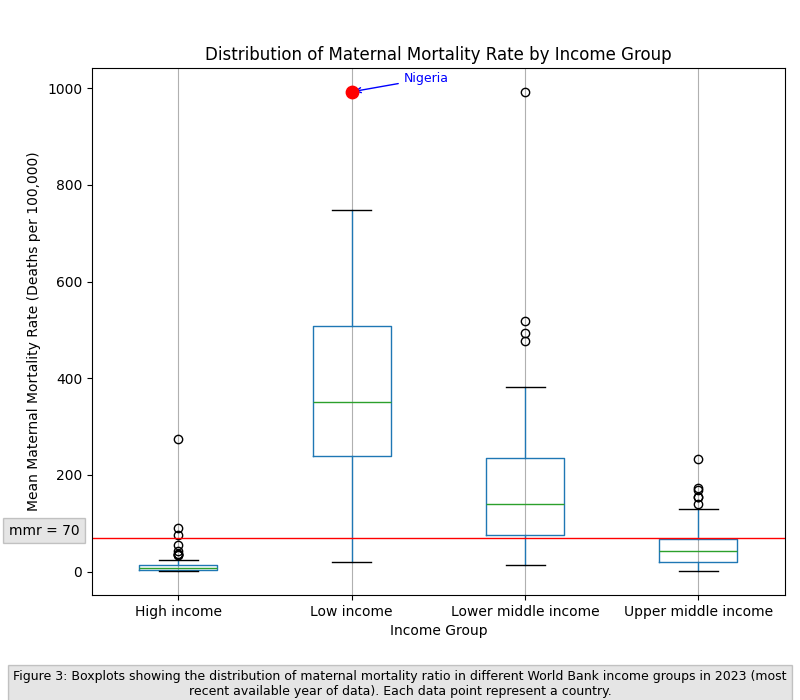
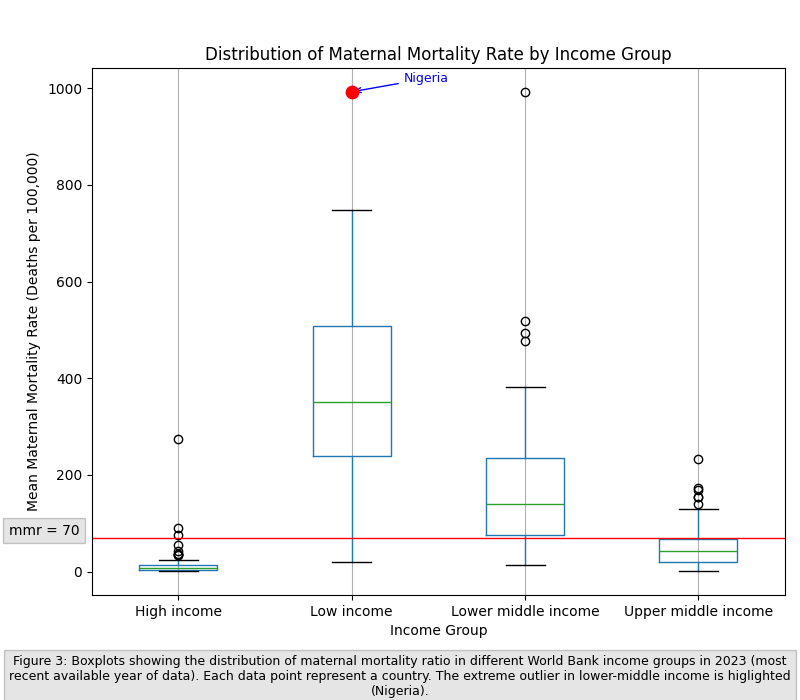
modification: including outlier on boxplot caption

Changed region(s): [[0.0, 0.93, 1.0, 1.0]]

diff --git a/mainCode.py b/mainCode.py
@@ -360,7 +360,7 @@ def box_plots():
     plt.text(
     0.02, 70, 'mmr = 70',
     verticalalignment='bottom', bbox ={'facecolor':'grey', 'alpha':0.2})
-    txt="Figure 3: Boxplots showing the distribution of maternal mortality ratio in different World Bank income groups in 2023 (most recent available year of data). Each data point represent a country."
+    txt="Figure 3: Boxplots showing the distribution of maternal mortality ratio in different World Bank income groups in 2023 (most recent available year of data). Each data point represent a country. The extreme outlier in lower-middle income is higlighted (Nigeria)."
     plt.figtext(0.5, 0.01, txt, wrap=True, horizontalalignment='center', fontsize=9, bbox ={'facecolor':'grey', 'alpha':0.2})
     plt.grid(axis="y")
     plt.tight_layout()
@@ -676,8 +676,8 @@ poverty_df_world, education_df_world, mmr_df_world = world_filters("Country", "W
 
 if __name__ == "__main__":
     
-    # pov_2023_column = percentage_pop_poverty()
-    # print (pov_2023_column)
+    pov_2023_column = percentage_pop_poverty()
+    print (pov_2023_column)
 
     plot_world_nigeria_mmr = plot_world_nigeria_timeseries()
     print(plot_world_nigeria_mmr)
